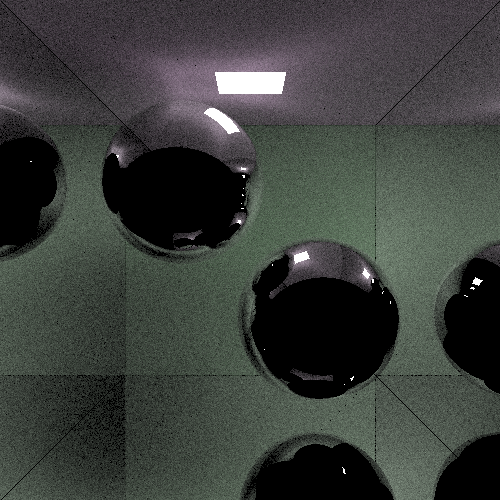
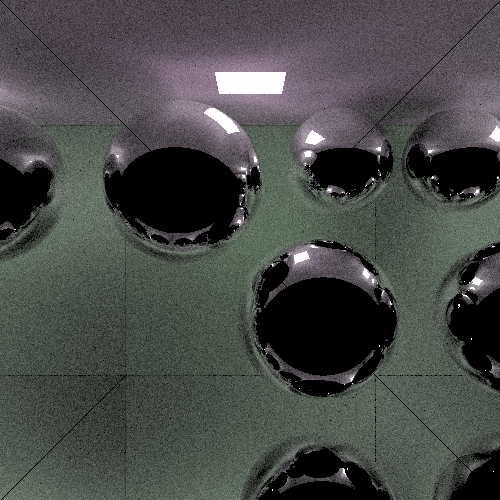
jojo

diff --git a/main.go b/main.go
@@ -284,28 +284,28 @@ func main() {
 		},
 	}
 
-	cuboid_size := 300.0
+	cuboid_size := 10000.0
 
 	cuboid := object.Object {
 		[](object.Triangle) {
 			// back wall
-			object.Triangle{vec3.Vec3{0, 0, cuboid_size}, vec3.Vec3{0, cuboid_size, cuboid_size}, vec3.Vec3{cuboid_size, cuboid_size, cuboid_size}, diffuse_pdf, white},
-			object.Triangle{vec3.Vec3{0, 0, cuboid_size}, vec3.Vec3{cuboid_size, cuboid_size, cuboid_size}, vec3.Vec3{cuboid_size, 0, cuboid_size}, diffuse_pdf, white},
+			object.Triangle{vec3.Vec3{0, 0, cuboid_size}, vec3.Vec3{0, cuboid_size, cuboid_size}, vec3.Vec3{cuboid_size, cuboid_size, cuboid_size}, diffuse_pdf, blue},
+			object.Triangle{vec3.Vec3{0, 0, cuboid_size}, vec3.Vec3{cuboid_size, cuboid_size, cuboid_size}, vec3.Vec3{cuboid_size, 0, cuboid_size}, diffuse_pdf, blue},
 			// left wall
-			object.Triangle{vec3.Vec3{0, 0, 0}, vec3.Vec3{0, cuboid_size, 0}, vec3.Vec3{0, cuboid_size, cuboid_size}, diffuse_pdf, white},
-			object.Triangle{vec3.Vec3{0, 0, 0}, vec3.Vec3{0, cuboid_size, cuboid_size}, vec3.Vec3{0, 0, cuboid_size}, diffuse_pdf, white},
+			object.Triangle{vec3.Vec3{0, 0, 0}, vec3.Vec3{0, cuboid_size, 0}, vec3.Vec3{0, cuboid_size, cuboid_size}, diffuse_pdf, blue},
+			object.Triangle{vec3.Vec3{0, 0, 0}, vec3.Vec3{0, cuboid_size, cuboid_size}, vec3.Vec3{0, 0, cuboid_size}, diffuse_pdf, blue},
 			// right wall
-			object.Triangle{vec3.Vec3{cuboid_size, cuboid_size, cuboid_size}, vec3.Vec3{cuboid_size, cuboid_size, 0}, vec3.Vec3{cuboid_size, 0, 0}, diffuse_pdf, white},
-			object.Triangle{vec3.Vec3{cuboid_size, 0, cuboid_size}, vec3.Vec3{cuboid_size, cuboid_size, cuboid_size}, vec3.Vec3{cuboid_size, 0, 0}, diffuse_pdf, white},
+			object.Triangle{vec3.Vec3{cuboid_size, cuboid_size, cuboid_size}, vec3.Vec3{cuboid_size, cuboid_size, 0}, vec3.Vec3{cuboid_size, 0, 0}, diffuse_pdf, blue},
+			object.Triangle{vec3.Vec3{cuboid_size, 0, cuboid_size}, vec3.Vec3{cuboid_size, cuboid_size, cuboid_size}, vec3.Vec3{cuboid_size, 0, 0}, diffuse_pdf, blue},
 			// ceiling
-			object.Triangle{vec3.Vec3{0, 0, 0}, vec3.Vec3{0, 0, cuboid_size}, vec3.Vec3{cuboid_size, 0, cuboid_size}, diffuse_pdf, white},
-			object.Triangle{vec3.Vec3{0, 0, 0}, vec3.Vec3{cuboid_size, 0, cuboid_size}, vec3.Vec3{cuboid_size, 0, 0}, diffuse_pdf, white},
+			object.Triangle{vec3.Vec3{0, 0, 0}, vec3.Vec3{0, 0, cuboid_size}, vec3.Vec3{cuboid_size, 0, cuboid_size}, diffuse_pdf, blue},
+			object.Triangle{vec3.Vec3{0, 0, 0}, vec3.Vec3{cuboid_size, 0, cuboid_size}, vec3.Vec3{cuboid_size, 0, 0}, diffuse_pdf, blue},
 			// floor
-			object.Triangle{vec3.Vec3{0, cuboid_size, 0}, vec3.Vec3{cuboid_size, cuboid_size, 0}, vec3.Vec3{0, cuboid_size, cuboid_size}, diffuse_pdf, white},
-			object.Triangle{vec3.Vec3{0, cuboid_size, cuboid_size}, vec3.Vec3{cuboid_size, cuboid_size, 0}, vec3.Vec3{cuboid_size, cuboid_size, cuboid_size}, diffuse_pdf, white},
+			object.Triangle{vec3.Vec3{0, cuboid_size, 0}, vec3.Vec3{cuboid_size, cuboid_size, 0}, vec3.Vec3{0, cuboid_size, cuboid_size}, diffuse_pdf, blue},
+			object.Triangle{vec3.Vec3{0, cuboid_size, cuboid_size}, vec3.Vec3{cuboid_size, cuboid_size, 0}, vec3.Vec3{cuboid_size, cuboid_size, cuboid_size}, diffuse_pdf, blue},
 			// front plane
-			object.Triangle{vec3.Vec3{0, 0, 0}, vec3.Vec3{0, cuboid_size, 0}, vec3.Vec3{cuboid_size, cuboid_size, 0}, diffuse_pdf, white},
-			object.Triangle{vec3.Vec3{0, 0, 0}, vec3.Vec3{cuboid_size, cuboid_size, 0}, vec3.Vec3{cuboid_size, 0, 0}, diffuse_pdf, white},
+			object.Triangle{vec3.Vec3{0, 0, 0}, vec3.Vec3{0, cuboid_size, 0}, vec3.Vec3{cuboid_size, cuboid_size, 0}, diffuse_pdf, blue},
+			object.Triangle{vec3.Vec3{0, 0, 0}, vec3.Vec3{cuboid_size, cuboid_size, 0}, vec3.Vec3{cuboid_size, 0, 0}, diffuse_pdf, blue},
 		},
 	}
 
@@ -379,7 +379,7 @@ func main() {
 	}
 
 	// example of how you can move an object
-	cuboid.Move(1, 1, 0)
+	cuboid.Move(-2500, -2500, -5000)
 	cuboid2.Move(1 + cuboid_size, 1 + cuboid_size, 1 + cuboid_size)
 
 	cuboid3.Move(1 + 1.8*cuboid_size, 1 + 1.6*cuboid_size, 1 + 2*cuboid_size)
@@ -398,6 +398,13 @@ func main() {
 	sphere2 := object.Sphere {
 		vec3.Vec3{350, 350, 250},
 		120.0,
+		specular_pdf,
+		white,
+	}
+
+	sphere3 := object.Sphere {
+		vec3.Vec3{400, 100, 350},
+		90.0,
 		specular_pdf,
 		white,
 	}
@@ -436,8 +443,9 @@ func main() {
 	_ = cuboid3
 	_ = cuboid4
 	_ = sphere1
+
 	objects = append(objects, room, lamp1)
-	spheres = append(spheres, sphere1, sphere2)
+	spheres = append(spheres, sphere1, sphere2, sphere3)
 
 	// CPU profiling by default
 	// defer profile.Start().Stop()
@@ -451,7 +459,7 @@ func main() {
 	// how many times a single pixel is sampled
 	pixel_samples, err := strconv.Atoi(string(os.Args[1]))
 	// how many times a ray bounces
-	hops               := 5
+	hops               := 7
 	
 	renderer.SetDrawColor(0, 0, 0, 255)
 	renderer.Clear()
